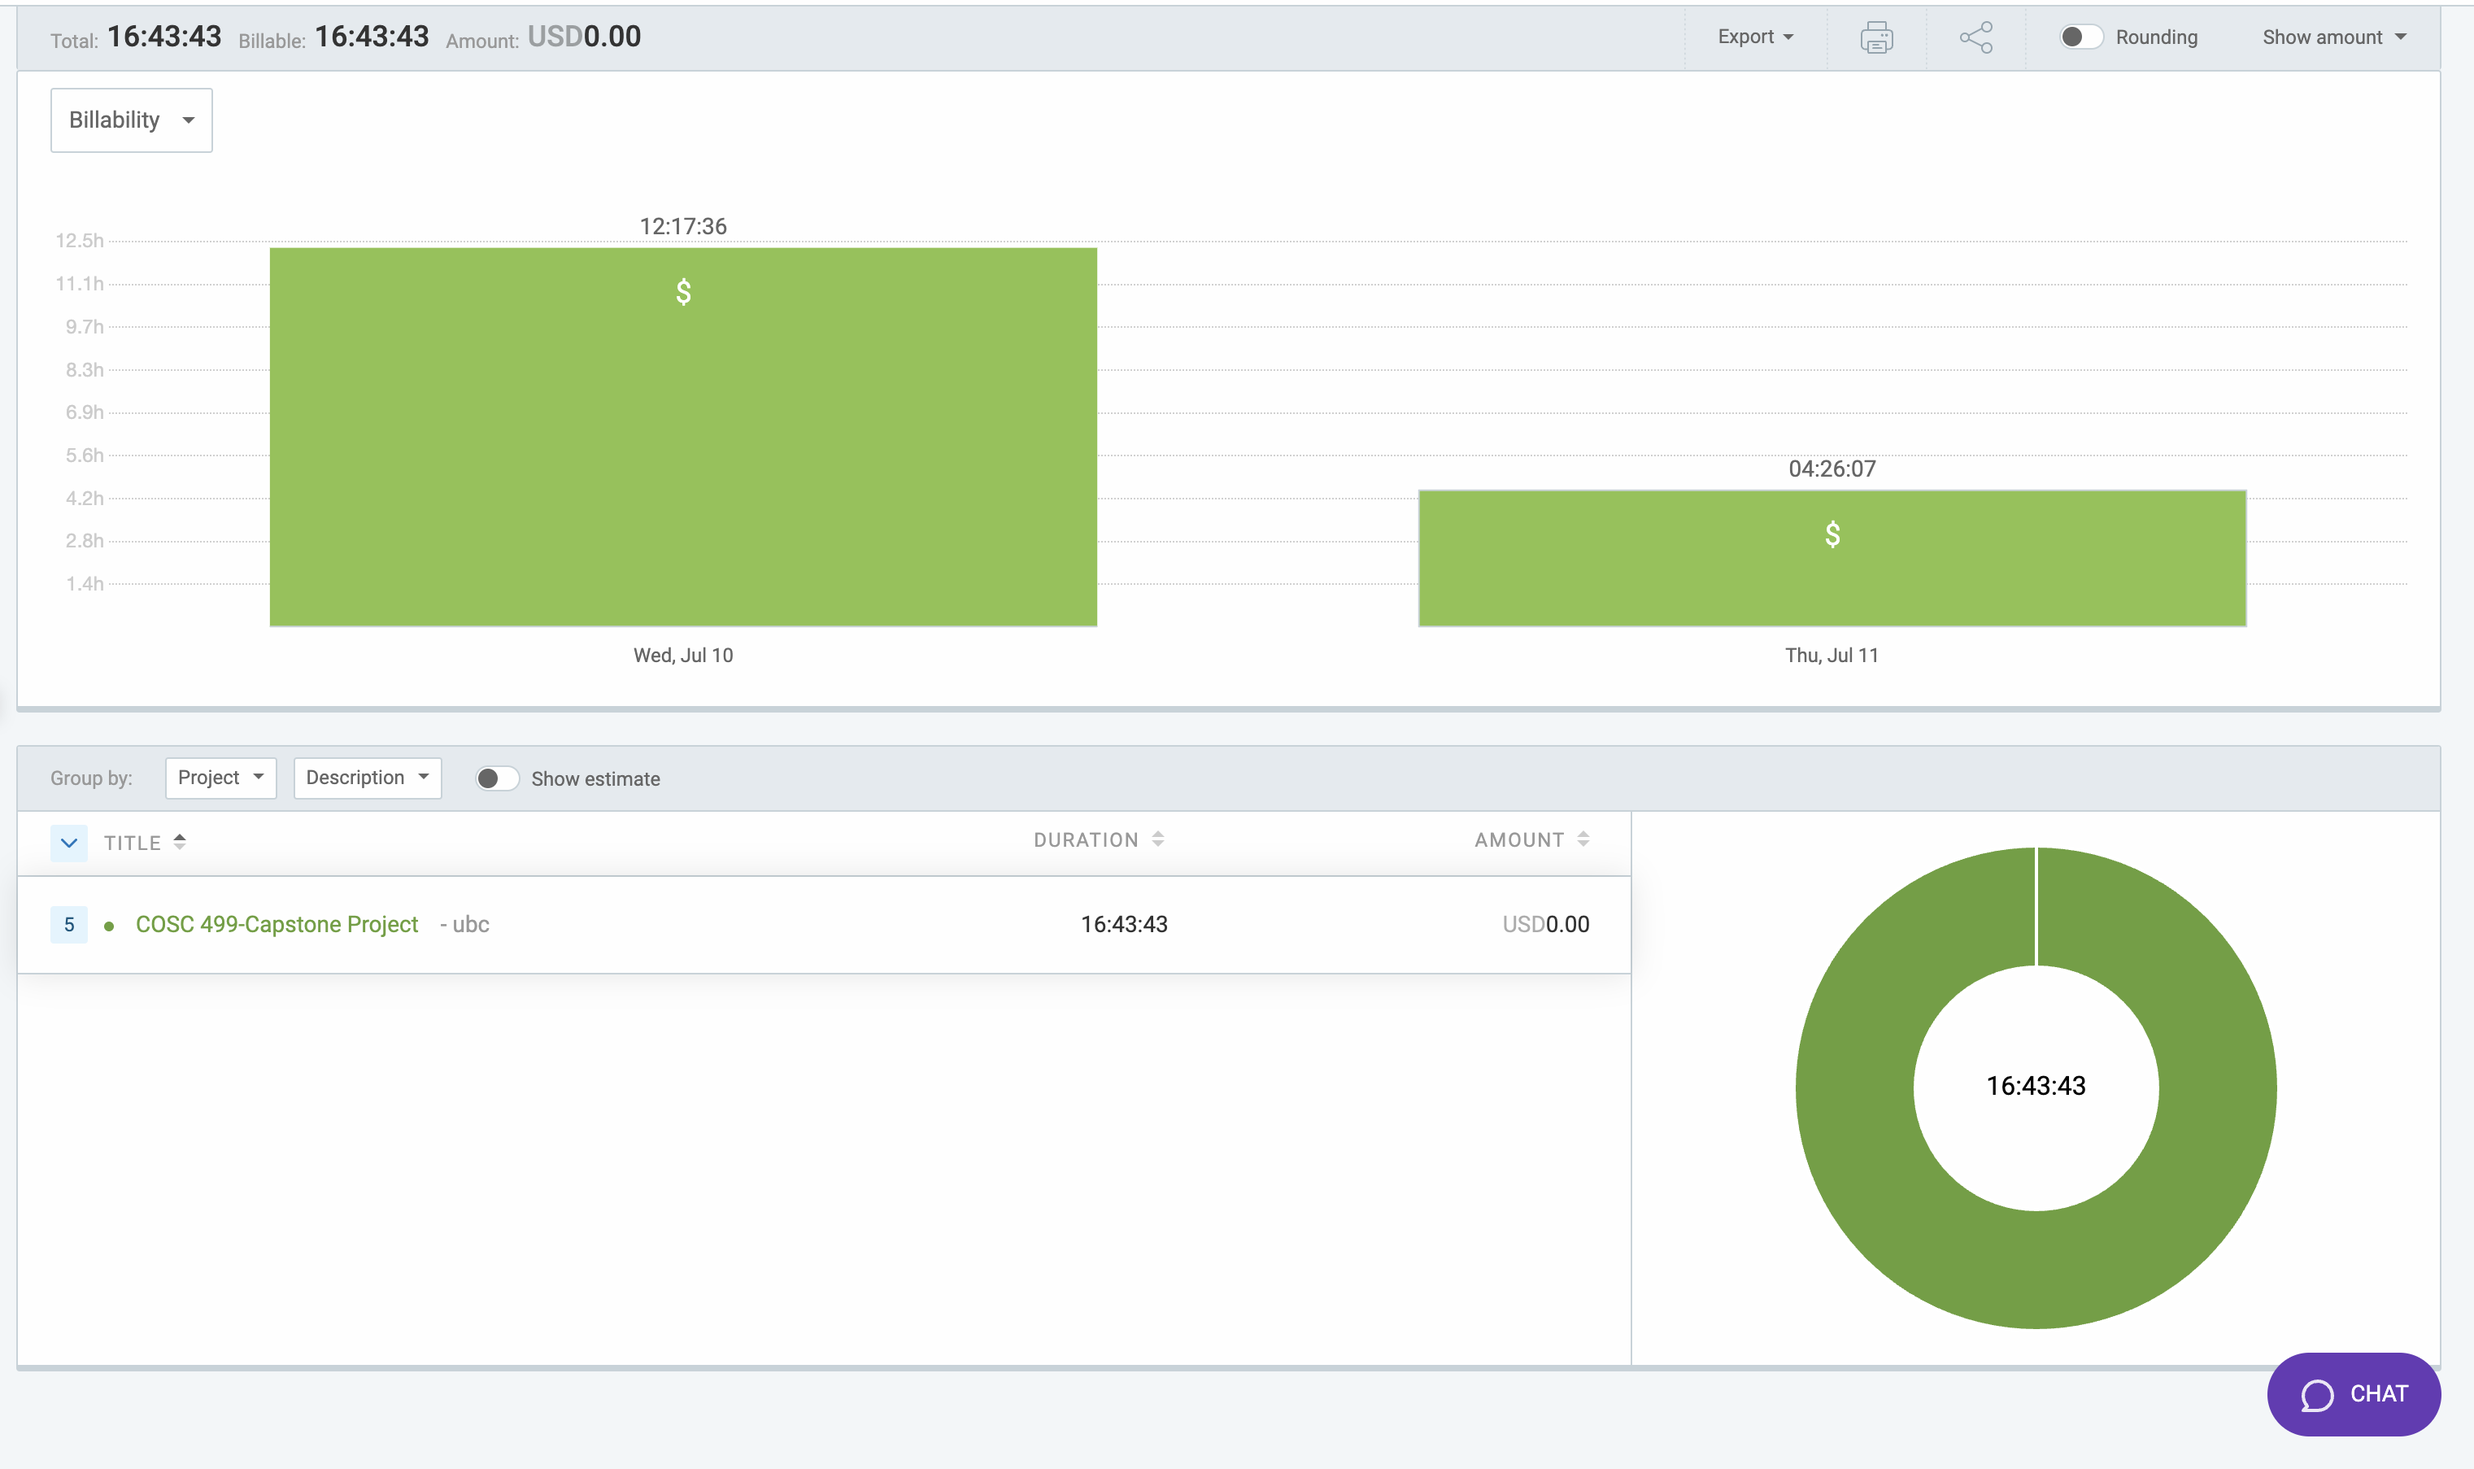
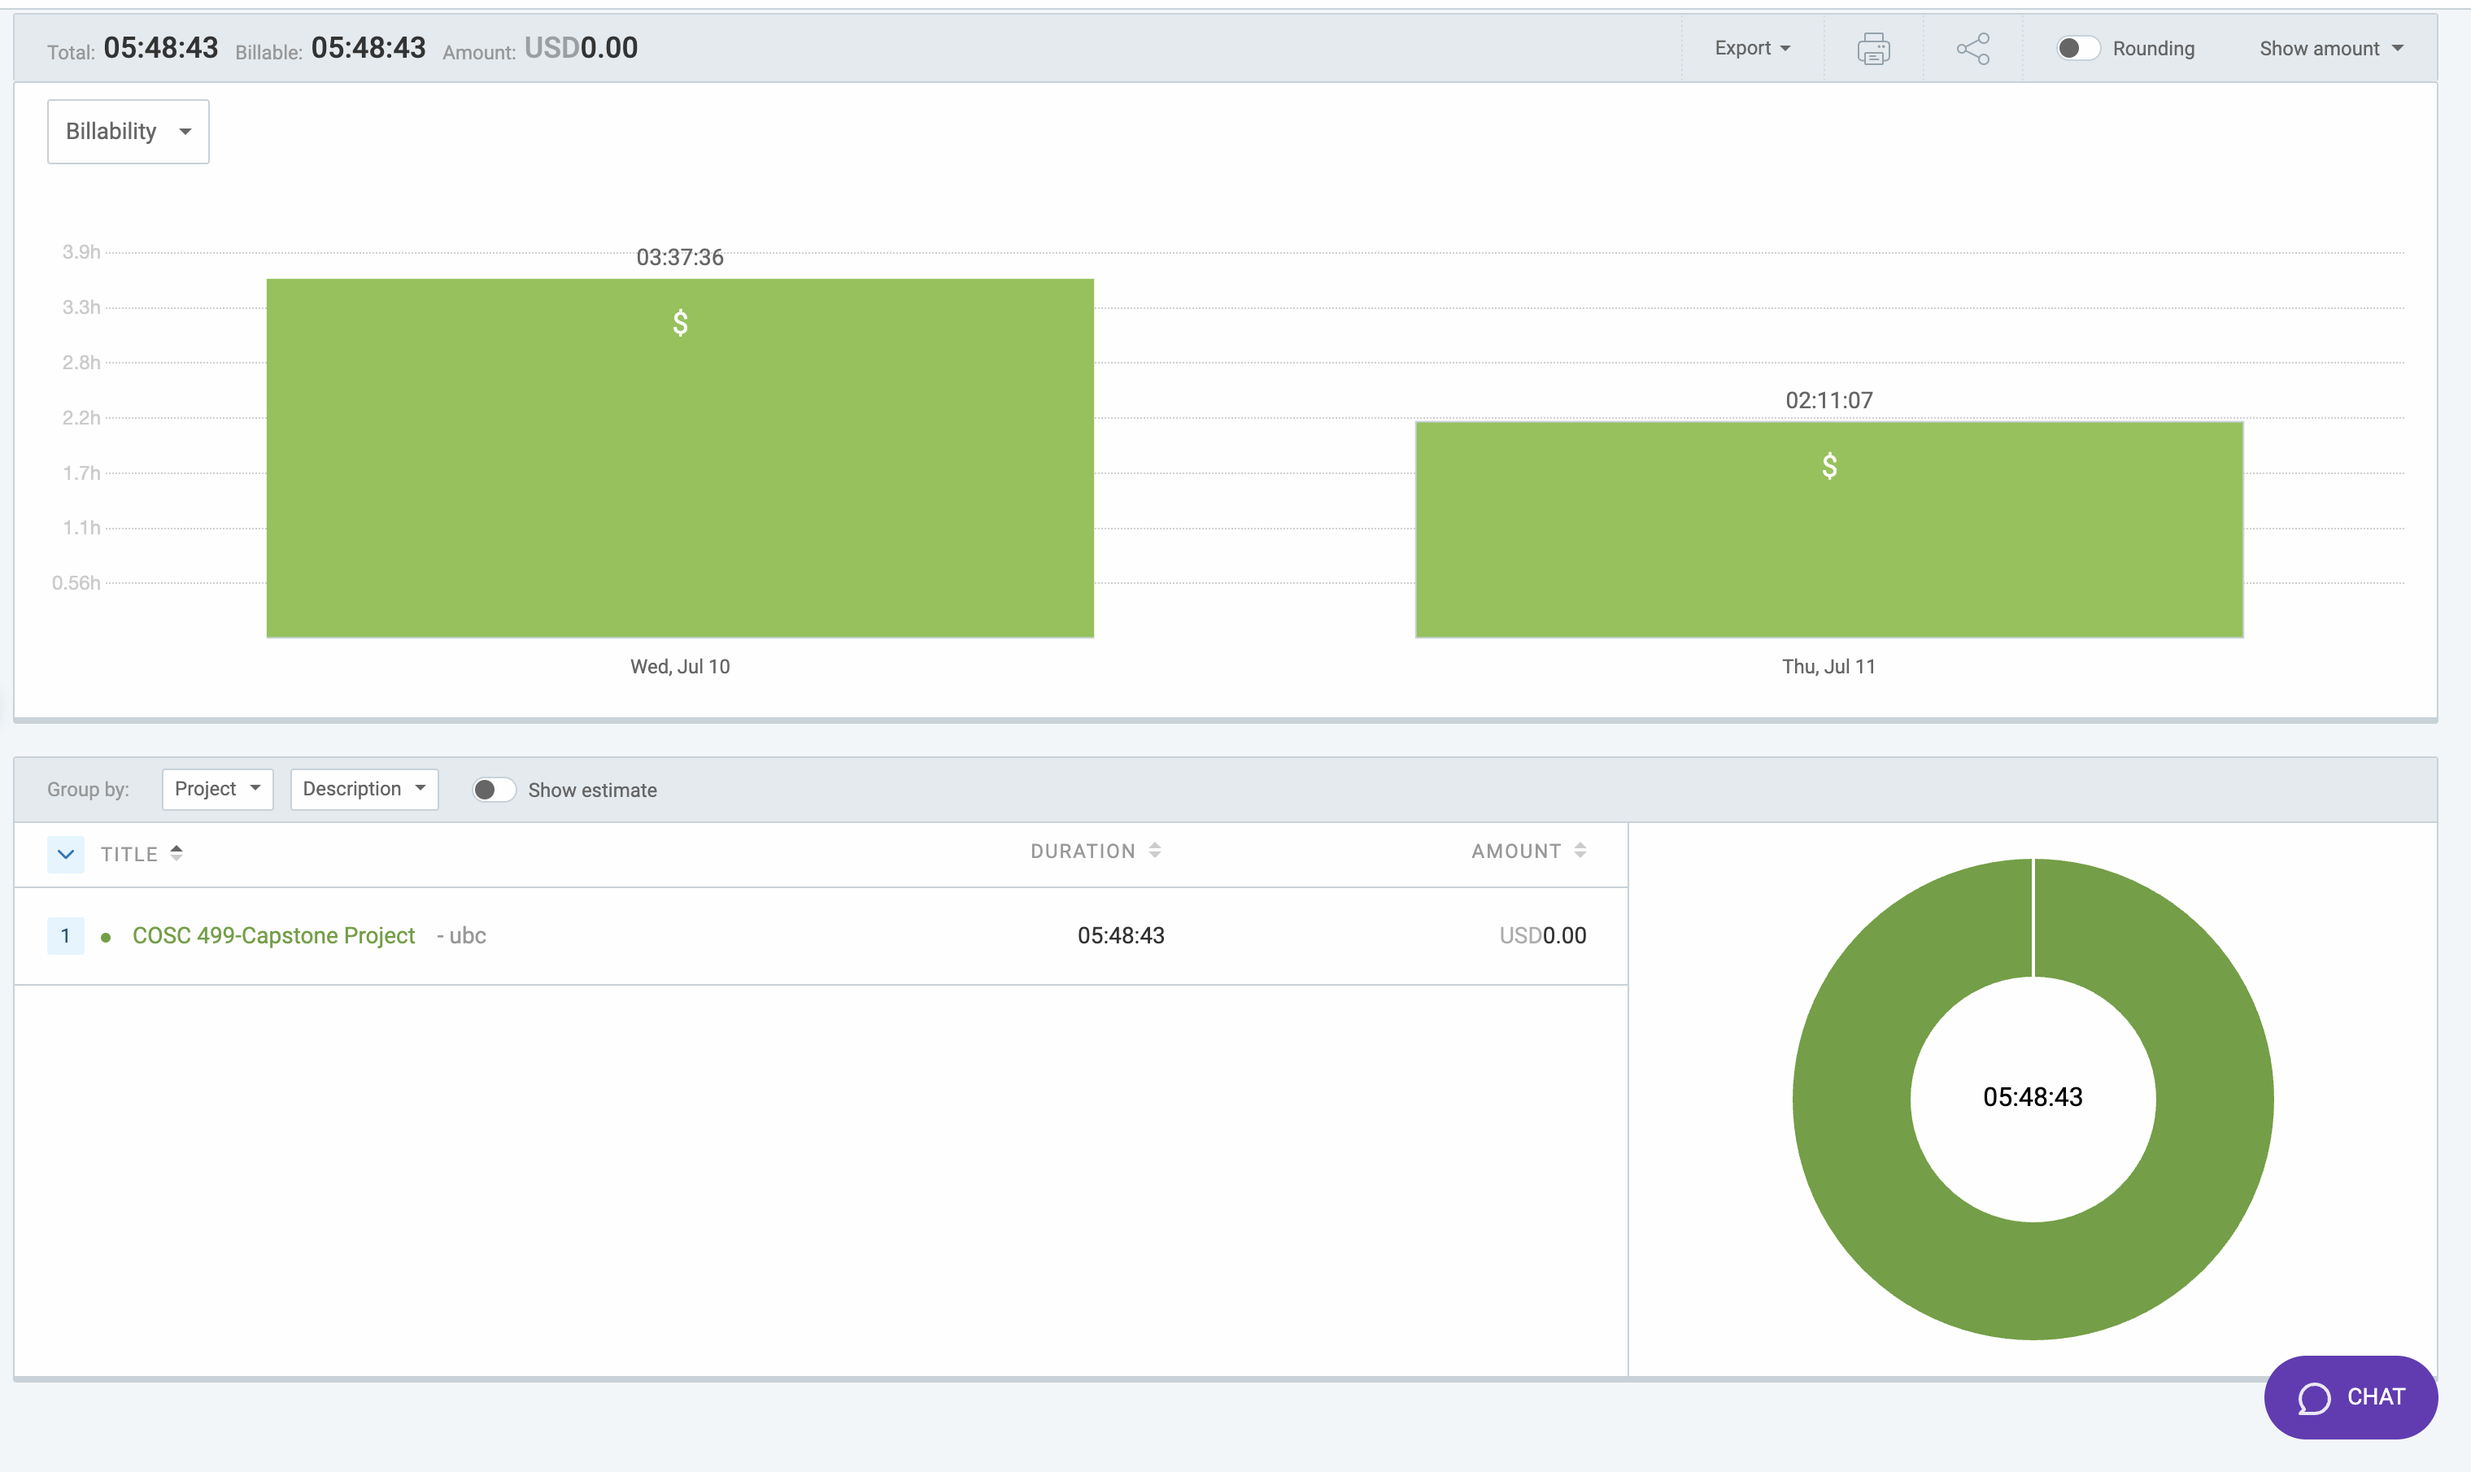
Logs for July10-11

diff --git a/docs/weekly logs/Jay Bhullar/LogsJuly10-11.md b/docs/weekly logs/Jay Bhullar/LogsJuly10-11.md
@@ -5,28 +5,28 @@
 
 ## Breakdown
 
-**Approximate Hours: 16.72**
+**Approximate Hours: 5.8**
 
 ### Things worked on: ###
 
-- **Frontend Fixing (6 hours):**
+- **Frontend Fixing (2.5 hours):**
   - Focused on resolving various frontend issues to improve the user interface and functionality.
 
-- **Correct Answers (5 hours):**
+- **Correct Answers (2 hours):**
   - Worked on ensuring the correct answers functionality displays accurate data on the frontend.
   - Addressed issues with displaying and managing correct answers in tests.
 
-- **Making Test Work (5.72 hours):**
+- **Making Test Work (1.3 hours):**
   - Debugged and fixed issues related to test functionality, ensuring tests work correctly.
 
 ### Comments ###
 
-This week, I concentrated on frontend fixing, making the correct answers work, and resolving issues with test functionality. Despite the progress, some tasks took longer than expected, especially with the correct answers and test functionality.
+This week, my focus was on frontend fixing, making the correct answers work, and resolving issues with test functionality. Although the time was limited, significant progress was made in ensuring these features work as expected.
 
 ## Timesheet
 
 ### Clockify report
-![Clockify report](./screenshots/TimesheetJuly11.png)
+![Clockify report](docs/weekly\ logs/Jay\ Bhullar/screenshots/Screenshot\ 2024-07-11\ at\ 11.39.01\ PM.png)
 
 ### Current Tasks (Provide sufficient detail)
   * #1: Frontend Fixing
@@ -46,7 +46,7 @@ This week, I concentrated on frontend fixing, making the correct answers work, a
         <td>Frontend Fixing
         </td>
         <!-- Status -->
-        <td>In Progress
+        <td>Complete
         </td>
     </tr>
     <tr>
@@ -54,7 +54,7 @@ This week, I concentrated on frontend fixing, making the correct answers work, a
         <td>Correct Answers
         </td>
         <!-- Status -->
-        <td>In Progress
+        <td>Complete
         </td>
     </tr>
     <tr>
@@ -68,7 +68,7 @@ This week, I concentrated on frontend fixing, making the correct answers work, a
 </table>
 
 ### Cycle Goal Review 
-Reflection: This cycle involved significant work on frontend fixes and ensuring the correct answers feature functions properly. While progress was made, some tasks took longer than anticipated due to their complexity.
+Reflection: This cycle involved significant work on frontend fixes and ensuring the correct answers feature functions properly. Despite limited hours, progress was made in stabilizing these features.
 
 Retrospective: The focus on fixing existing issues was necessary to ensure a stable application. Moving forward, balancing between new development and fixing existing issues will be key.
 
